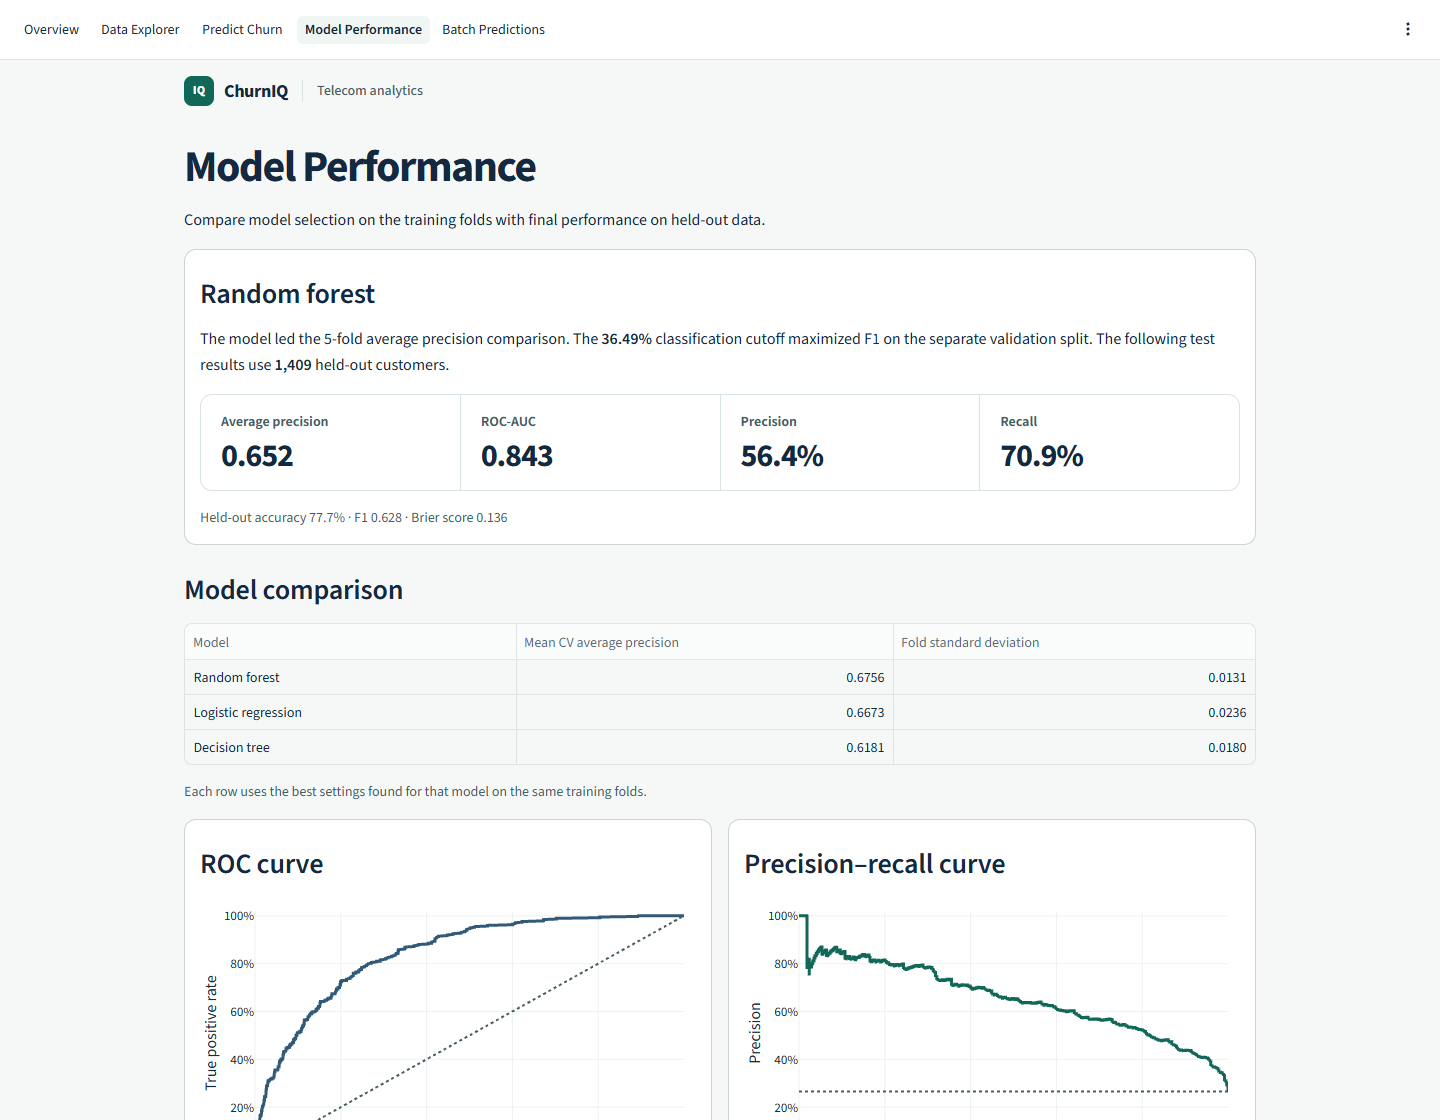
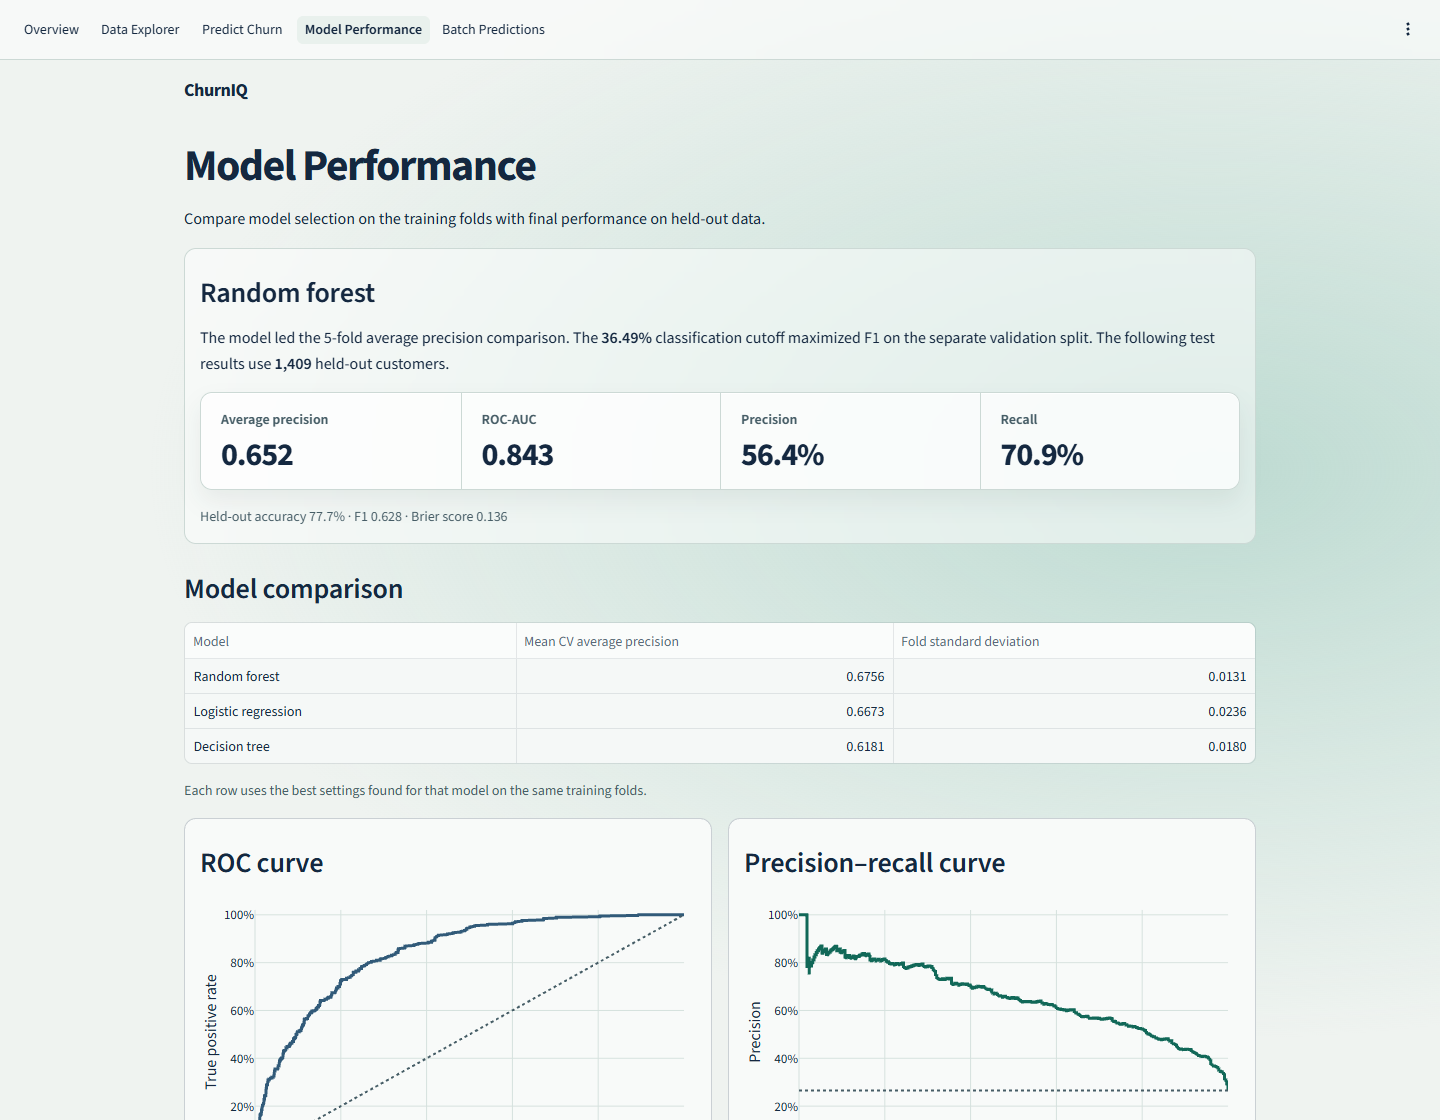
Add frosted dashboard panels and dimensional outcome bars

diff --git a/assets/styles.css b/assets/styles.css
@@ -3,13 +3,16 @@
     --churn-muted: #465D66;
     --churn-accent: #116858;
     --churn-accent-dark: #0B5044;
-    --churn-line: #D9E4E2;
+    --churn-line: #CCD9D5;
+    --churn-glass: #F8FAF9;
+    --churn-blur: none;
     --churn-radius: .75rem;
+    --churn-edge: inset 0 1px 0 rgb(255 255 255 / 90%), 0 12px 24px rgb(24 51 44 / 7%);
 }
-[data-testid="stHeader"] {
-    background: #FFFFFF;
-    border-bottom: 1px solid var(--churn-line);
+[data-testid="stMain"] {
+    background: radial-gradient(ellipse at 84% 42%, #BEDBD2, transparent 62%), #EFF3F0;
 }
+[data-testid="stHeader"] { border-bottom: 1px solid var(--churn-line); }
 [data-testid="stMainBlockContainer"] {
     max-width: 77rem;
     padding-top: 4.75rem;
@@ -20,39 +23,17 @@
     line-height: 1.12;
     letter-spacing: -.035em;
 }
-.churn-brand {
-    display: flex;
-    align-items: center;
-    gap: .625rem;
+[data-testid="stHtml"] .churn-brand {
+    margin: 0;
     color: var(--churn-ink);
     font-size: 1.125rem;
     font-weight: 750;
-    letter-spacing: -.02em;
-}
-.churn-logo {
-    display: grid;
-    place-items: center;
-    width: 1.875rem;
-    height: 1.875rem;
-    flex: none;
-    border-radius: .5rem;
-    background: var(--churn-accent);
-    color: #FFFFFF;
-    font-size: .75rem;
-    letter-spacing: .025em;
-}
-.churn-brand-context {
-    color: var(--churn-muted);
-    border-left: 1px solid var(--churn-line);
-    margin-left: .25rem;
-    padding-left: .875rem;
-    font-size: .875rem;
-    font-weight: 500;
-    letter-spacing: 0;
+    letter-spacing: -.025em;
 }
 .st-key-overview_header { padding-bottom: .5rem; }
 .st-key-overview_header [data-testid="stColumn"] h1 { padding-bottom: .25rem; }
-.st-key-overview_header [data-testid="stMarkdownContainer"] p {
+.st-key-overview_header [data-testid="stMarkdownContainer"] p,
+.st-key-contract_observation [data-testid="stMarkdownContainer"] p {
     color: var(--churn-muted);
     margin-bottom: 0;
 }
@@ -72,7 +53,6 @@
 .st-key-overview_action a:hover,
 .st-key-overview_action a:focus-visible {
     background: var(--churn-accent-dark);
-    color: #FFFFFF;
 }
 [data-testid="stMain"] :is(a, button):focus-visible,
 [data-testid="stHeader"] :is(a, button):focus-visible {
@@ -82,20 +62,18 @@
 [data-testid="stHtml"] .churn-kpis {
     display: grid;
     grid-template-columns: repeat(4, minmax(0, 1fr));
-    gap: 1px;
     margin: 0;
     padding: 0;
     border: 1px solid var(--churn-line);
     border-radius: var(--churn-radius);
     overflow: hidden;
-    background: var(--churn-line);
 }
 .churn-kpi {
-    background: #FFFFFF;
     padding: 1rem 1.25rem;
     min-width: 0;
 }
-.churn-kpi.is-highlighted { background: #EAF5F1; }
+.churn-kpi + .churn-kpi { border-left: 1px solid var(--churn-line); }
+.churn-kpi.is-highlighted { background: rgb(207 231 223 / 44%); }
 .churn-kpi dt,
 .churn-outcomes dt {
     color: var(--churn-muted);
@@ -112,42 +90,91 @@
     font-variant-numeric: tabular-nums;
 }
 .churn-kpi.is-highlighted dd { color: var(--churn-accent-dark); }
+.st-key-surface_contract h2,
+.st-key-surface_outcomes h2 { font-size: 1.5rem; }
 .churn-outcome-bar {
     display: flex;
-    gap: 2px;
-    height: .75rem;
-    overflow: hidden;
-    border-radius: .375rem;
-    margin: .5rem 0;
+    gap: .875rem;
+    min-height: 2.75rem;
+    padding: .625rem .5rem .5rem 0;
+}
+.churn-outcome-block {
+    flex: var(--customers) 1 0;
+    position: relative;
+    min-width: 0;
+    height: 1.625rem;
+    background: var(--outcome-color);
+    box-shadow: 0 .375rem .625rem rgb(24 51 44 / 16%);
+}
+.churn-outcome-block::before,
+.churn-outcome-block::after {
+    content: "";
+    position: absolute;
+    background: var(--outcome-color);
+}
+.churn-outcome-block::before {
+    inset: auto 0 100%;
+    height: .5rem;
+    transform: skewX(-45deg);
+    transform-origin: bottom left;
+    filter: brightness(1.4);
+}
+.churn-outcome-block::after {
+    inset: 0 auto 0 100%;
+    width: .5rem;
+    transform: skewY(-45deg);
+    transform-origin: top left;
+    filter: brightness(.76);
 }
 [data-testid="stHtml"] .churn-outcomes { margin: 0; padding: 0; }
 .churn-outcomes > div {
     display: grid;
-    grid-template-columns: 1fr auto 4.5rem;
+    grid-template-columns: 1fr auto 4rem;
     align-items: center;
     gap: .75rem;
-    min-height: 3rem;
+    min-height: 2.75rem;
     border-bottom: 1px solid var(--churn-line);
 }
 .churn-outcomes dt { display: flex; align-items: center; gap: .5rem; }
-.churn-outcomes dt span { width: .625rem; height: .625rem; flex: none; border-radius: 50%; }
+.churn-outcomes dt::before {
+    content: "";
+    width: .625rem;
+    height: .625rem;
+    flex: none;
+    border-radius: .125rem;
+    background: var(--outcome-color);
+}
 .churn-outcomes dd { margin: 0; font-weight: 700; font-variant-numeric: tabular-nums; }
 .churn-outcomes dd:last-child { text-align: right; color: var(--churn-muted); font-weight: 500; }
-.st-key-surface_observation {
-    border-left: 3px solid #367F70;
-    border-radius: 0;
-    padding-left: .875rem;
+.st-key-contract_observation [data-testid="stMarkdownContainer"] p + p {
+    margin-top: .375rem;
+    line-height: 1.45;
 }
-.st-key-surface_observation [data-testid="stMarkdownContainer"] p {
-    color: var(--churn-muted);
-    margin-bottom: 0;
-}
-[data-testid="stMain"] [data-testid="stMetric"] { font-variant-numeric: tabular-nums; }
-[data-testid="stMain"] div[data-testid="stMetric"] { background: #FFFFFF; }
+[data-testid="stMain"] div[data-testid="stMetric"] { font-variant-numeric: tabular-nums; background: #FFFFFF; }
 [data-testid="stVerticalBlockBorderWrapper"],
 [data-testid="stVerticalBlock"][height="auto"],
 [data-testid="stForm"] { border-radius: var(--churn-radius); }
-[class*="st-key-surface_"] { background: #FFFFFF; }
+[class*="st-key-surface_"] { background: #F8FAF9; }
+:is([data-testid="stHeader"], .churn-kpis, .st-key-surface_contract,
+    .st-key-surface_outcomes, .st-key-surface_model_summary, .st-key-surface_local_explanation,
+    [data-testid="stForm"]) {
+    background: var(--churn-glass);
+    border-color: var(--churn-line);
+    backdrop-filter: var(--churn-blur);
+}
+:is(.churn-kpis, .st-key-surface_contract, .st-key-surface_outcomes) { box-shadow: var(--churn-edge); }
+@supports (backdrop-filter: blur(1px)) {
+    .stApp {
+        --churn-glass: rgb(255 255 255 / 51%);
+        --churn-blur: blur(.875rem);
+    }
+}
+@media (prefers-reduced-transparency: reduce) {
+    .stApp {
+        --churn-glass: #F8FAF9;
+        --churn-blur: none;
+    }
+}
 [data-testid="stCaptionContainer"] { opacity: 1; }
 [data-testid="stCaptionContainer"] p { color: var(--churn-muted); }
 @media (max-width: 700px) {
@@ -169,5 +196,11 @@
     [data-testid="stMainBlockContainer"] { padding-top: 4.5rem; }
     [data-testid="stHtml"] .churn-kpis { grid-template-columns: repeat(2, minmax(0, 1fr)); }
     .churn-kpi { padding: .875rem 1rem; }
-    .st-key-overview_action { justify-content: flex-start; }
+    .churn-kpi:nth-child(3) { border-left: 0; }
+    .churn-kpi:nth-child(n + 3) { border-top: 1px solid var(--churn-line); }
+    .st-key-overview_action { justify-content: flex-start; padding-top: .25rem; }
+}
+@media (forced-colors: active) {
+    .churn-outcome-bar { display: none; }
+    [data-testid="stMain"] :is(a, button):focus-visible { outline-color: Highlight; }
 }

diff --git a/views/overview.py b/views/overview.py
@@ -6,7 +6,7 @@ with st.container(key="overview_header"):
     heading, action = st.columns([3, 1], vertical_alignment="center")
     with heading:
         st.title("Customer churn overview")
-        st.markdown("Explore churn by contract in IBM’s fictional telecom sample.")
+        st.markdown("IBM Telco Customer Churn sample")
     with action.container(key="overview_action", horizontal=True, horizontal_alignment="right"):
         st.page_link(
             "views/predict_churn.py", label="Score a sample customer",
@@ -24,8 +24,7 @@ metric_cards([
 
 contract_panel, outcome_panel = st.columns([3, 2], gap="medium")
 with contract_panel.container(border=True, height="stretch", key="surface_contract"):
-    st.subheader("Churn by contract")
-    st.caption("Share of each contract group that left.")
+    st.header("Churn by contract")
     rates = churn_rate_chart(data, "Contract", max_rate=0.55, height=235)
     with st.expander("View contract data"):
         st.table({
@@ -35,28 +34,28 @@ with contract_panel.container(border=True, height="stretch", key="surface_contra
         })
 
 with outcome_panel.container(border=True, height="stretch", key="surface_outcomes"):
-    st.subheader("Customer outcomes")
-    st.caption("Recorded outcomes across the full sample.")
+    st.header("Customer outcomes")
     counts = {"Retained": int((~churned).sum()), "Churned": int(churned.sum())}
     total = len(data)
-    segments = "".join(
-        f'<span style="width:{count / total:.8%};background:{OUTCOME_COLORS[label]}"></span>'
+    blocks = "".join(
+        f'<span class="churn-outcome-block" style="--customers:{count};'
+        f'--outcome-color:{OUTCOME_COLORS[label]}"></span>'
         for label, count in counts.items()
     )
     rows = "".join(
-        f'<div><dt><span aria-hidden="true" style="background:{OUTCOME_COLORS[label]}"></span>{label}</dt>'
+        f'<div style="--outcome-color:{OUTCOME_COLORS[label]}"><dt>{label}</dt>'
         f'<dd>{count:,}</dd><dd>{count / total:.1%}</dd></div>'
         for label, count in counts.items()
     )
     st.html(
-        f'<div class="churn-outcome-bar" aria-hidden="true">{segments}</div>'
+        f'<div class="churn-outcome-bar" aria-hidden="true">{blocks}</div>'
         f'<dl class="churn-outcomes" aria-label="Customer outcomes">{rows}</dl>'
     )
 
     high, low = rates.iloc[-1], rates.iloc[0]
-    with st.container(key="surface_observation"):
-        st.markdown(f"**{100 * (high['rate'] - low['rate']):.1f} percentage-point gap**")
+    with st.container(key="contract_observation"):
         st.markdown(
+            f"**{100 * (high['rate'] - low['rate']):.1f} percentage-point gap**\n\n"
             f"Recorded churn was {high['rate']:.1%} for {high['Contract'].lower()} contracts "
             f"and {low['rate']:.1%} for {low['Contract'].lower()} contracts."
         )

diff --git a/src/dashboard.py b/src/dashboard.py
@@ -14,7 +14,7 @@ NAVY = "#142840"
 BLUE = "#315A79"
 TEAL = "#116858"
 MUTED = "#465D66"
-GRID = "#ECF1F0"
+GRID = "#D5E1DD"
 OUTCOME_LABELS = {"No": "Retained", "Yes": "Churned"}
 OUTCOME_COLORS = {"Retained": BLUE, "Churned": TEAL}
 
@@ -57,8 +57,8 @@ def metric_cards(items: list[tuple[str, str]], *, highlight: str | None = None) 
 def chart(figure: go.Figure, *, height: int = 300, legend: bool = False) -> None:
     figure.update_layout(
         height=height,
-        paper_bgcolor="#FFFFFF",
-        plot_bgcolor="#FFFFFF",
+        paper_bgcolor="rgba(0, 0, 0, 0)",
+        plot_bgcolor="rgba(0, 0, 0, 0)",
         font={"family": "Source Sans, Arial, sans-serif", "color": NAVY, "size": 13},
         margin={"l": 8, "r": 12, "t": 14, "b": 8},
         showlegend=legend,
@@ -88,7 +88,7 @@ def churn_rate_chart(
         textposition="outside", cliponaxis=False, customdata=rates["customers"],
         hovertemplate="%{y}<br>%{x:.1%} churn · %{customdata:,} customers<extra></extra>",
     ))
-    figure.update_xaxes(title="Share of customers who churned", tickformat=".0%", range=[0, max_rate])
+    figure.update_xaxes(title="Recorded churn rate", tickformat=".0%", range=[0, max_rate])
     figure.update_yaxes(type="category")
     figure.update_layout(bargap=0.42)
     chart(figure, height=height)

diff --git a/views/predict_churn.py b/views/predict_churn.py
@@ -7,7 +7,7 @@ from src.predict import predict_one
 from src.schema import CATEGORIES, FIELD_LABELS, INTERNET_ADDONS
 
 st.title("Predict Churn")
-st.markdown("Score a fictional customer using their account history, billing and services.")
+st.markdown("The form starts with a fictional customer. Score it as shown or change the details.")
 bundle, _ = model_release()
 
 with st.form("customer_profile", border=True):

diff --git a/app.py b/app.py
@@ -20,8 +20,5 @@ pages = [
 ]
 page = st.navigation(pages, position="top")
 st.html(Path(__file__).resolve().parent / "assets" / "styles.css")
-st.html(
-    '<div class="churn-brand"><span class="churn-logo" aria-hidden="true">IQ</span>'
-    '<span>ChurnIQ</span><span class="churn-brand-context">Telecom analytics</span></div>'
-)
+st.html('<p class="churn-brand">ChurnIQ</p>')
 page.run()
